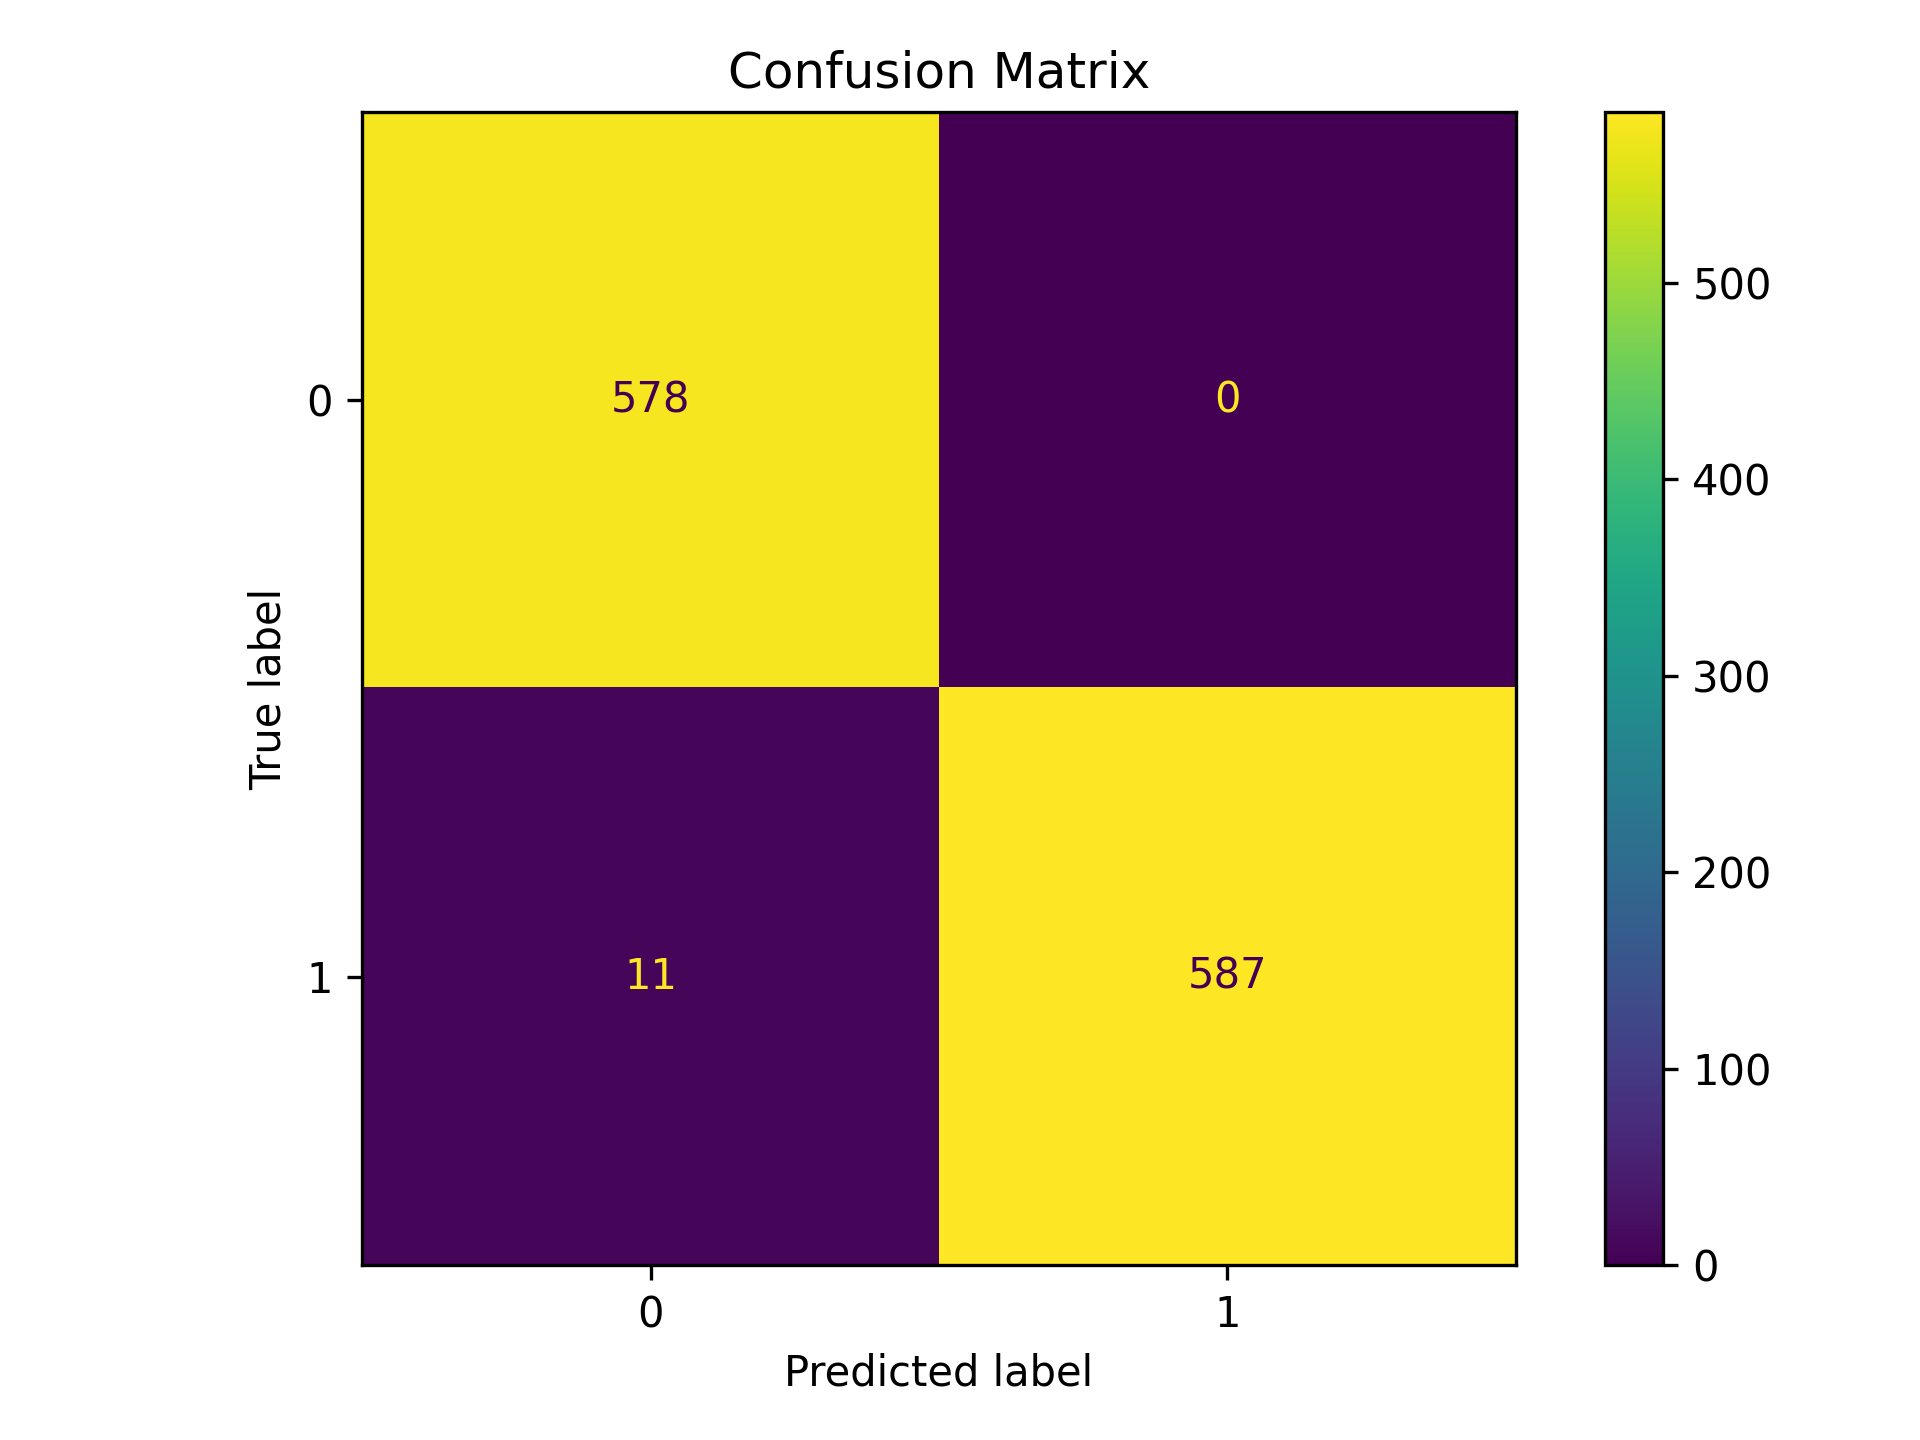
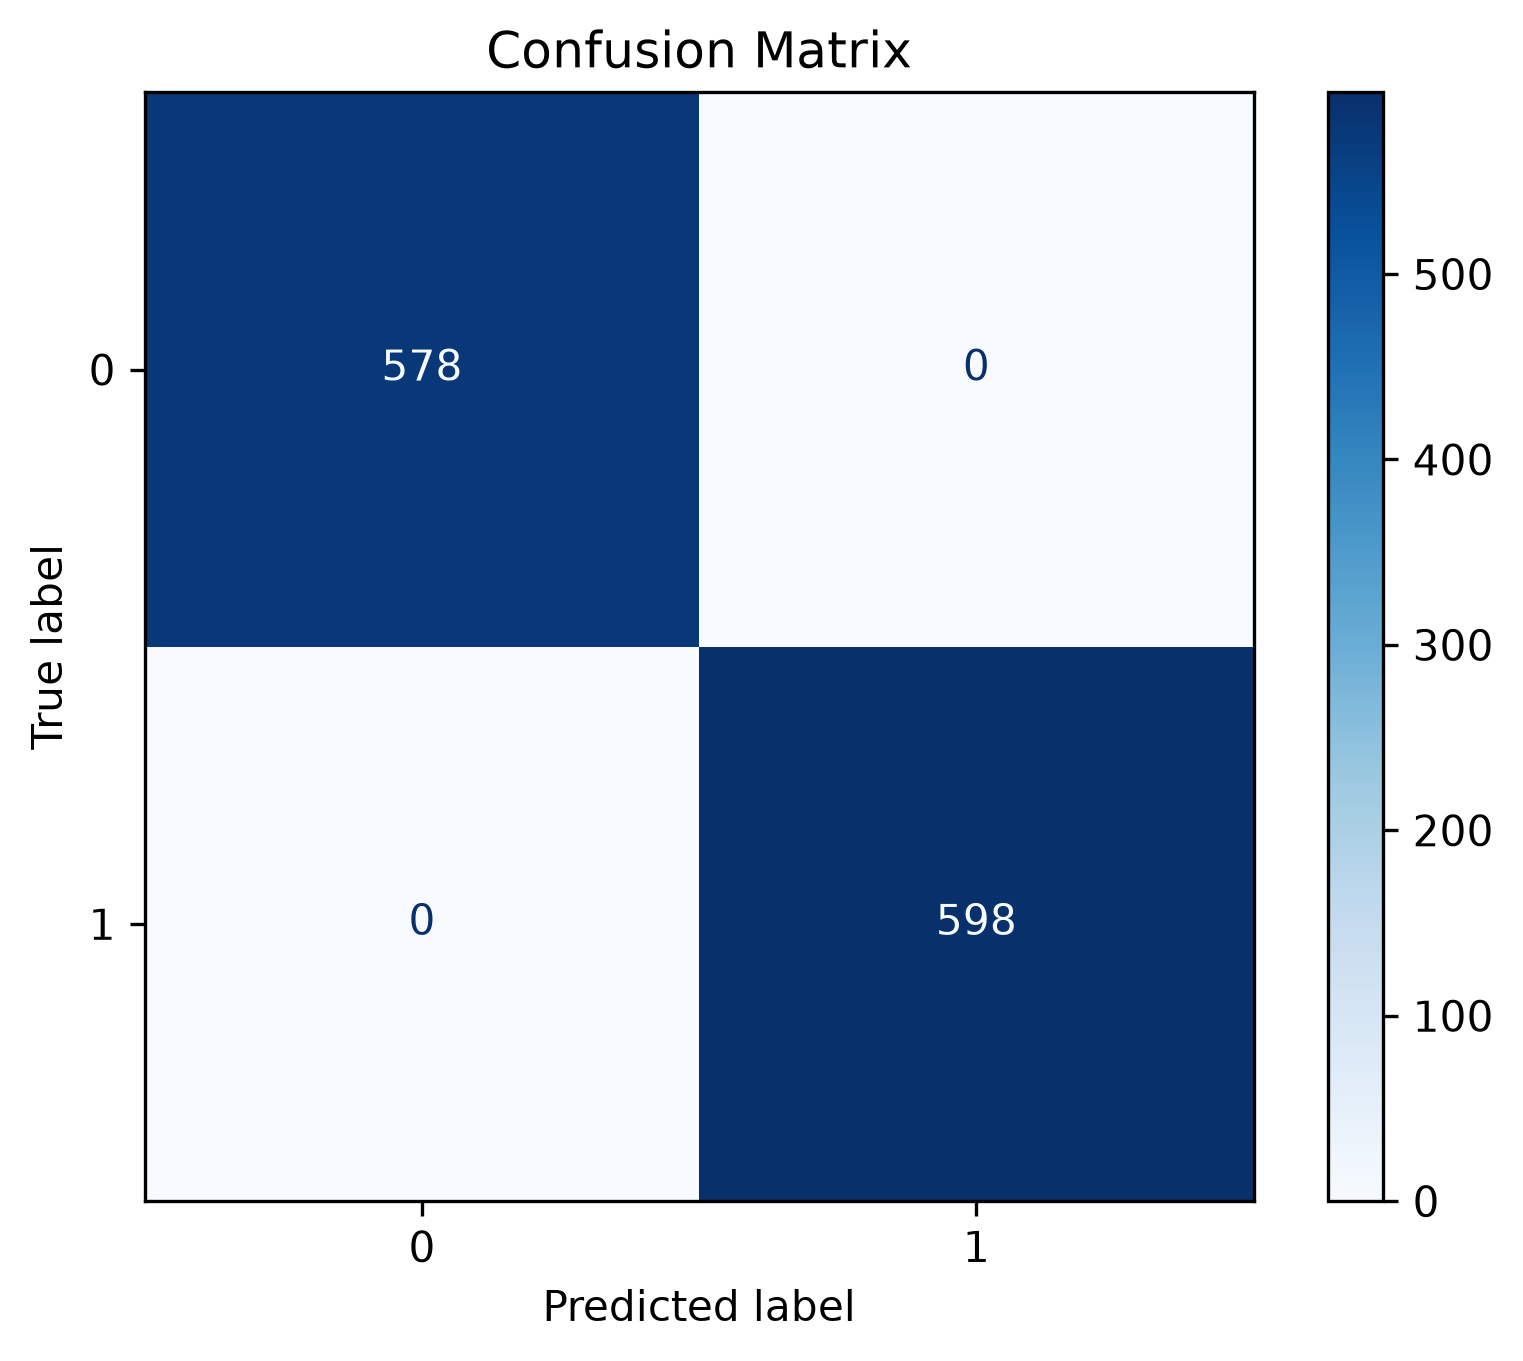
Add model evaluation reports and visualizations

diff --git a/outputs/model_improvement_report.html b/outputs/model_improvement_report.html
@@ -1,0 +1,308 @@
+
+<!DOCTYPE html>
+
+<html>
+
+<head>
+
+<title>NeuralRetail Model Improvement Report</title>
+
+<style>
+
+body{
+    font-family:Arial;
+    background:#f4f4f4;
+    margin:0;
+}
+
+.header{
+    background:#ff9800;
+    color:white;
+    padding:30px;
+    text-align:center;
+}
+
+.container{
+    width:90%;
+    margin:auto;
+}
+
+.card{
+    background:white;
+    margin:20px 0;
+    padding:25px;
+    border-radius:12px;
+    box-shadow:0px 2px 8px rgba(0,0,0,.2);
+}
+
+h2{
+    color:#ff9800;
+}
+
+.styled-table{
+    border-collapse:collapse;
+    width:100%;
+}
+
+.styled-table th{
+    background:#ff9800;
+    color:white;
+    padding:12px;
+}
+
+.styled-table td{
+    padding:12px;
+    text-align:center;
+}
+
+img{
+    width:90%;
+    display:block;
+    margin:auto;
+}
+
+.footer{
+    background:#222;
+    color:white;
+    text-align:center;
+    padding:15px;
+    margin-top:40px;
+}
+
+</style>
+
+</head>
+
+<body>
+
+<div class="header">
+
+<h1>NeuralRetail</h1>
+
+<h2>Model Improvement Report</h2>
+
+<p>Model Improvement Report</p>
+
+</div>
+
+<div class="container">
+
+<div class="card">
+
+<h2>Objective</h2>
+
+<p>
+
+Improve customer churn prediction through hyperparameter tuning,
+model comparison and model explainability.
+
+</p>
+
+</div>
+
+<div class="card">
+
+<h2>Dataset Overview</h2>
+
+<ul>
+
+<li>Dataset : Customer Features</li>
+
+<li>Target : Churn</li>
+
+<li>Features : 12</li>
+
+<li>Train/Test Split : 80/20</li>
+
+<li>Algorithm : Logistic Regression, Random Forest, Gradient Boosting</li>
+
+</ul>
+
+</div>
+
+<div class="card">
+
+<h2>Hyperparameter Tuning</h2>
+
+
+<ul>
+<li><b>C:</b> 0.01</li>
+<li><b>Solver:</b> lbfgs</li>
+<li><b>Penalty:</b> l2</li>
+<li><b>Max Iterations:</b> 500</li>
+</ul>
+
+
+</div>
+
+<div class="card">
+
+<h2>Model Comparison</h2>
+
+<table class="dataframe styled-table">
+  <thead>
+    <tr style="text-align: right;">
+      <th>Model</th>
+      <th>Accuracy</th>
+      <th>Precision</th>
+      <th>Recall</th>
+      <th>F1 Score</th>
+    </tr>
+  </thead>
+  <tbody>
+    <tr>
+      <td>Logistic Regression</td>
+      <td>1.0</td>
+      <td>1.0</td>
+      <td>1.0</td>
+      <td>1.0</td>
+    </tr>
+    <tr>
+      <td>Random Forest</td>
+      <td>1.0</td>
+      <td>1.0</td>
+      <td>1.0</td>
+      <td>1.0</td>
+    </tr>
+    <tr>
+      <td>Gradient Boosting</td>
+      <td>1.0</td>
+      <td>1.0</td>
+      <td>1.0</td>
+      <td>1.0</td>
+    </tr>
+  </tbody>
+</table>
+
+</div>
+
+<div class="card">
+
+<h2>Feature Importance</h2>
+
+<img src="feature_importance.png">
+
+<p>
+
+<b>Observation:</b>
+Recency, RFM Score and R Score are the most influential features.
+
+</p>
+
+<p>
+
+<b>Business Insight:</b>
+
+Customers who have not purchased recently are most likely to churn.
+
+</p>
+
+</div>
+
+<div class="card">
+
+<h2>SHAP Summary Plot</h2>
+
+<img src="shap_summary.png">
+
+<p>
+
+SHAP explains the contribution of every feature to individual predictions.
+
+</p>
+
+</div>
+
+<div class="card">
+
+<h2>SHAP Feature Importance</h2>
+
+<img src="shap_bar.png">
+
+<p>
+
+The bar plot ranks features according to their average impact on predictions.
+
+</p>
+
+</div>
+
+<div class="card">
+
+<h2>Confusion Matrix</h2>
+
+<img src="confusion_matrix.png">
+
+</div>
+
+<div class="card">
+
+<h2>ROC Curve</h2>
+
+<img src="roc_curve.png">
+
+</div>
+
+<div class="card">
+
+<h2>Key Business Insights</h2>
+
+<ul>
+
+<li>Recent customer activity is the strongest predictor of churn.</li>
+
+<li>RFM Score is highly effective in customer segmentation.</li>
+
+<li>Customers with low purchase frequency require targeted retention strategies.</li>
+
+<li>Feature engineering significantly improved model performance.</li>
+
+</ul>
+
+</div>
+
+<div class="card">
+
+<h2>Recommendations</h2>
+
+<ul>
+
+<li>Monitor inactive customers regularly.</li>
+
+<li>Launch personalized retention campaigns.</li>
+
+<li>Reward loyal customers.</li>
+
+<li>Retrain the model periodically with new customer data.</li>
+
+</ul>
+
+</div>
+
+<div class="card">
+
+<h2>Conclusion</h2>
+
+<p>
+
+The project successfully improved churn prediction using feature engineering,
+hyperparameter tuning and explainable AI techniques.
+The developed model demonstrates excellent predictive performance and
+provides actionable business insights.
+
+</p>
+
+</div>
+
+</div>
+
+<div class="footer">
+
+NeuralRetail © 2026
+
+</div>
+
+</body>
+
+</html>
+